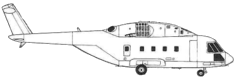
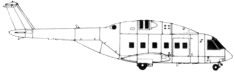
mi38 new sprite

Changed region(s): [[0.0, 0.0, 1.0, 1.0]]

diff --git a/shilka2/Aircrafts/Aircrafts.cs b/shilka2/Aircrafts/Aircrafts.cs
@@ -2159,7 +2159,7 @@ namespace shilka2
             {
                 aircraftType = "mi38",
                 aircraftName = "Ми-38",
-                size = new int[] { 235, 78 },
+                size = new int[] { 235, 72 },
                 speed = 5,
                 maxAltitude = maxAltitudeForHelicopters,
                 friend = true,
@@ -2168,18 +2168,18 @@ namespace shilka2
                     new DynamicElement
                     {
                         elementName = "prop_main",
-                        y = -2,
-                        x_left = -34,
-                        x_right = 42,
+                        y = -4,
+                        x_left = -37,
+                        x_right = 46,
                         movingType = DynamicElement.MovingType.xRotate,
                         background = true,
                     },
                     new DynamicElement
                     {
                         elementName = "x_suppl",
-                        y = -9,
-                        x_left = 200,
-                        x_right = -16,
+                        y = -14,
+                        x_left = 195,
+                        x_right = -12,
                         movingType = DynamicElement.MovingType.zRotate
                     }
                 }
